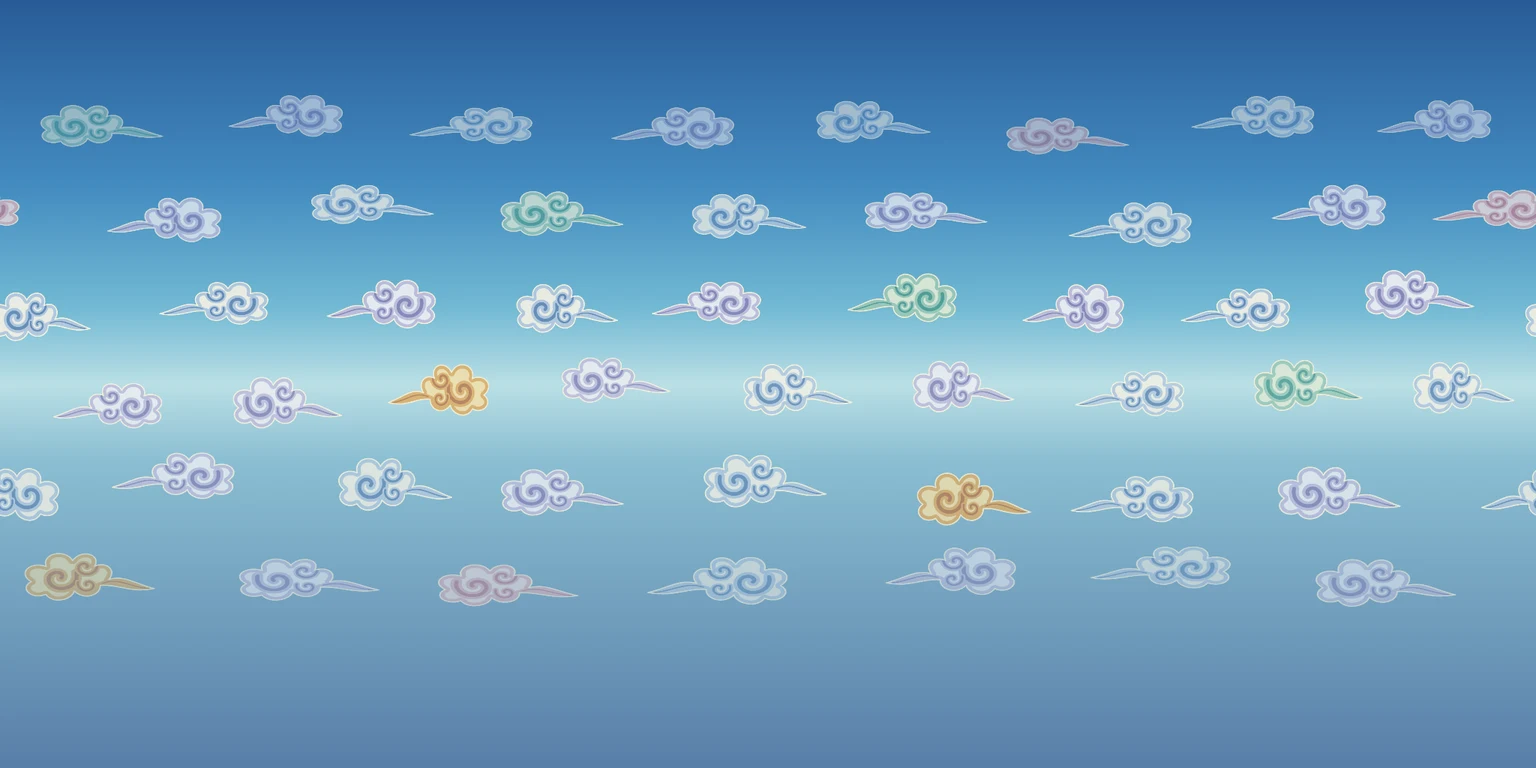
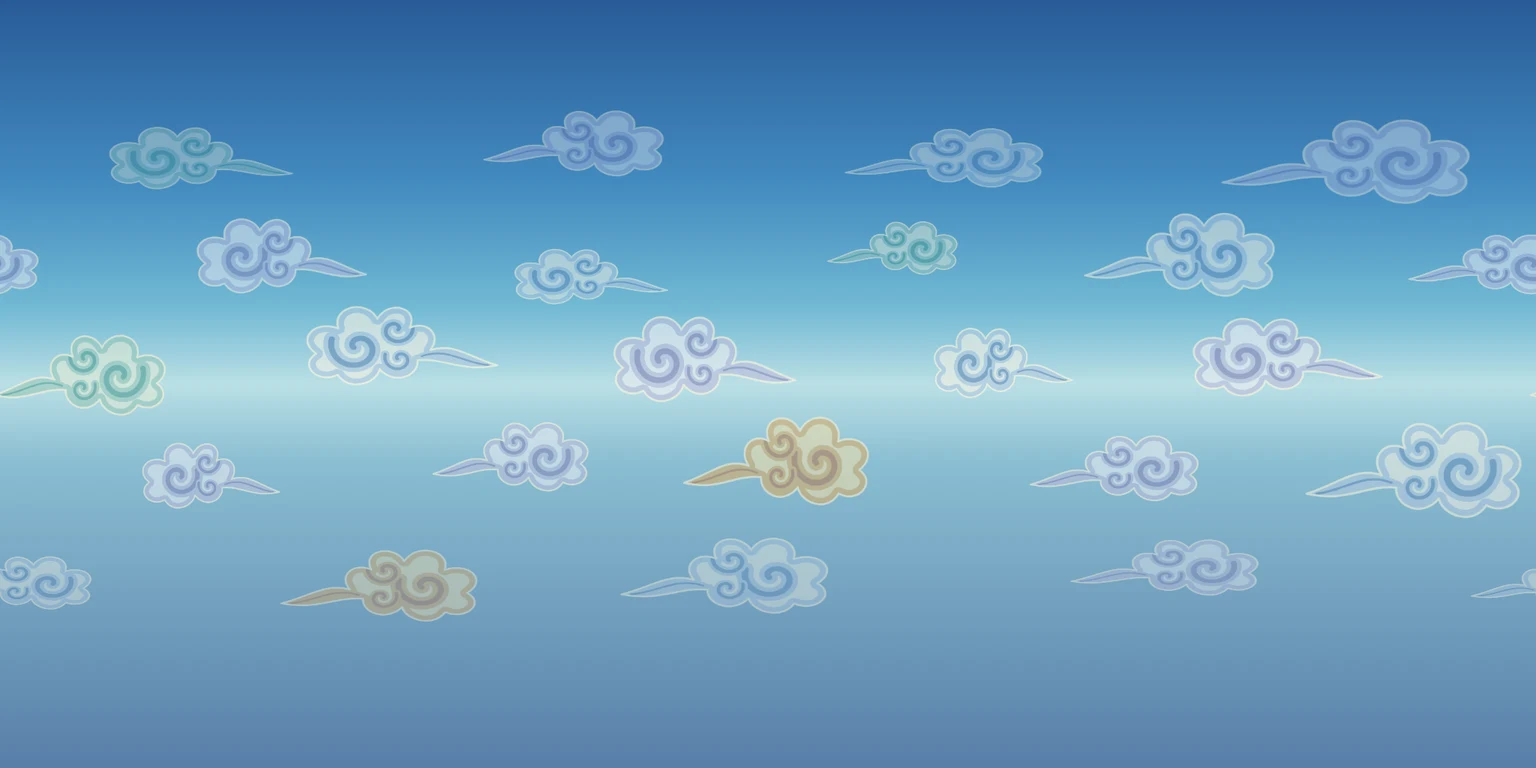
Use fewer, larger clouds with varied sizes and softer opacity

diff --git a/sky-clouds.js b/sky-clouds.js
@@ -78,23 +78,24 @@ export function paintClouds(ctx, width, height, dark, makeCanvas = () => documen
   // Continue below the horizon for elevated and top-down mandala views.
   // Keep both poles clear to prevent equirectangular pinching.
   const courses = [
-    [0.16, 0.045, 8, 0.56], [0.28, 0.055, 8, 0.76],
-    [0.395, 0.070, 9, 0.92], [0.51, 0.073, 9, 0.84],
-    [0.635, 0.066, 8, 0.78], [0.75, 0.045, 7, 0.56]
+    [0.20, 0.066, 4, 0.40], [0.335, 0.084, 5, 0.52],
+    [0.47, 0.095, 5, 0.62], [0.61, 0.086, 5, 0.56],
+    [0.75, 0.066, 4, 0.42]
   ];
   ctx.save();
   courses.forEach(([v, scale, count, opacity], row) => {
     for (let i = 0; i < count; i++) {
       const x = ((i + 0.5 + row * 0.37 + (random() - 0.5) * 0.16) / count) * width;
-      const y = (v + (random() - 0.5) * 0.034) * height;
-      const size = scale * height * (0.83 + random() * 0.28);
+      const y = (v + (random() - 0.5) * 0.050) * height;
+      const size = scale * height;
+      const variation = 0.62 + random() * 0.48;
       const pigment = (i + row * 3) % 5 === 0 ? 2 + (i + row) % 3 : (i + row) % 2;
       const kind = (i + row) % 3, key = pigment * 3 + kind;
       if (!motifs.has(key)) motifs.set(key, cloudCanvas(makeCanvas, palettes[pigment], kind));
       const motif = motifs.get(key), flip = random() > 0.5 ? -1 : 1;
       const naturalWidth = size * 400 / 96 / Math.max(0.72, Math.sin(v * Math.PI));
       const fit = Math.min(1, width / count * 0.80 / naturalWidth);
-      const w = naturalWidth * fit, h = size * 220 / 96 * fit;
+      const w = naturalWidth * fit * variation, h = size * 220 / 96 * fit * variation;
       ctx.globalAlpha = opacity * (dark ? 0.68 : 1);
       // Draw each copy once: no overlapping wrap passes at the seam.
       for (const offset of [-width, 0, width]) {
